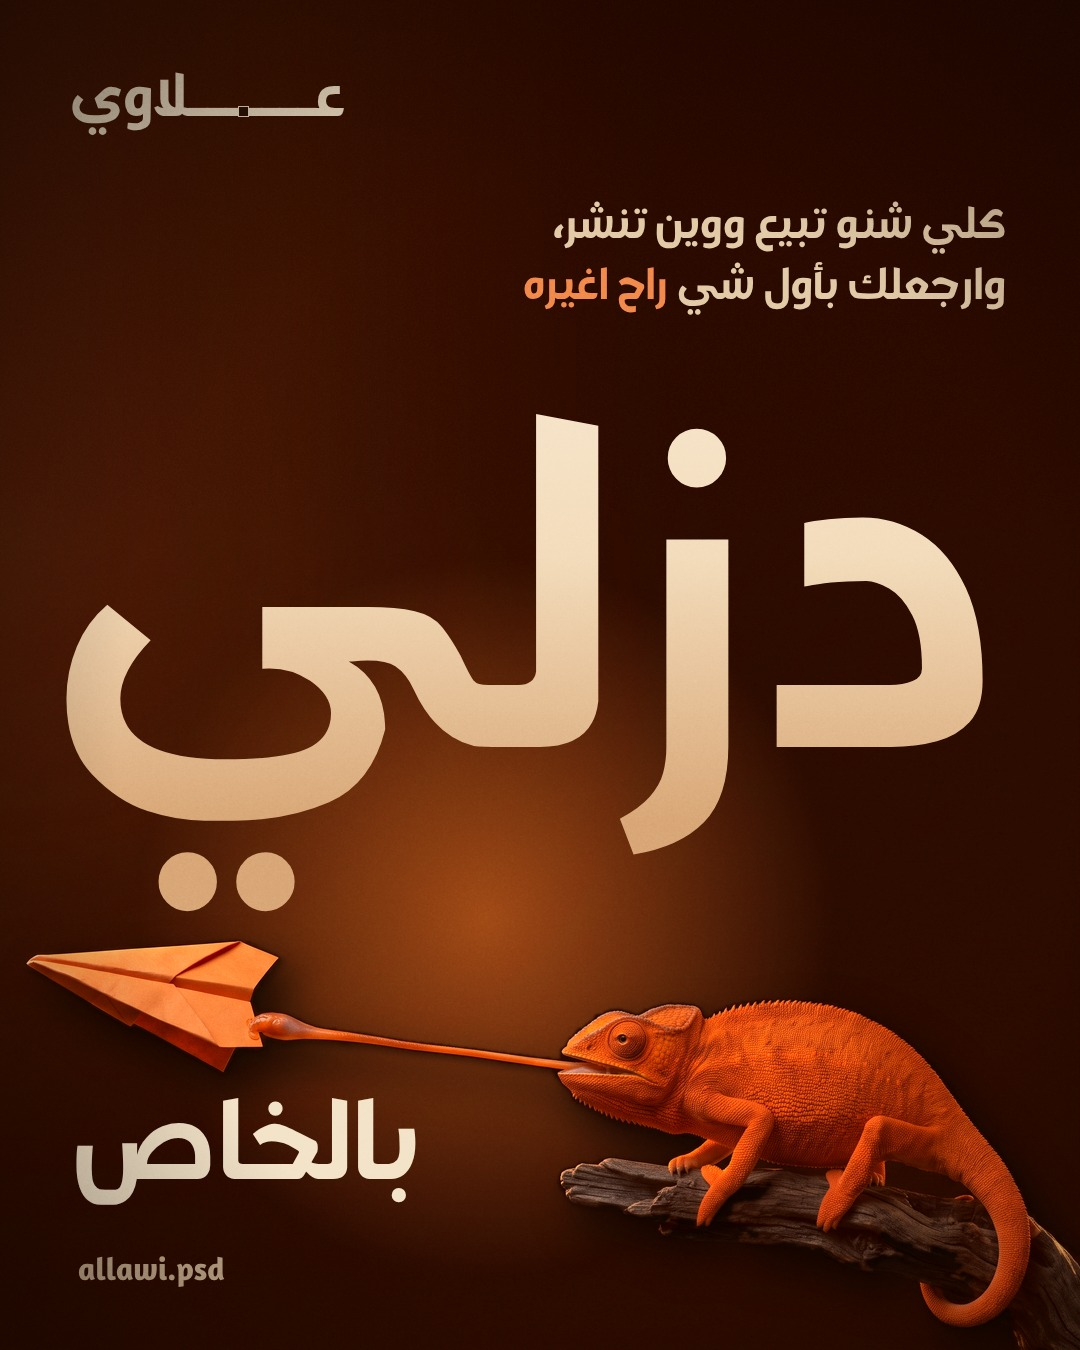
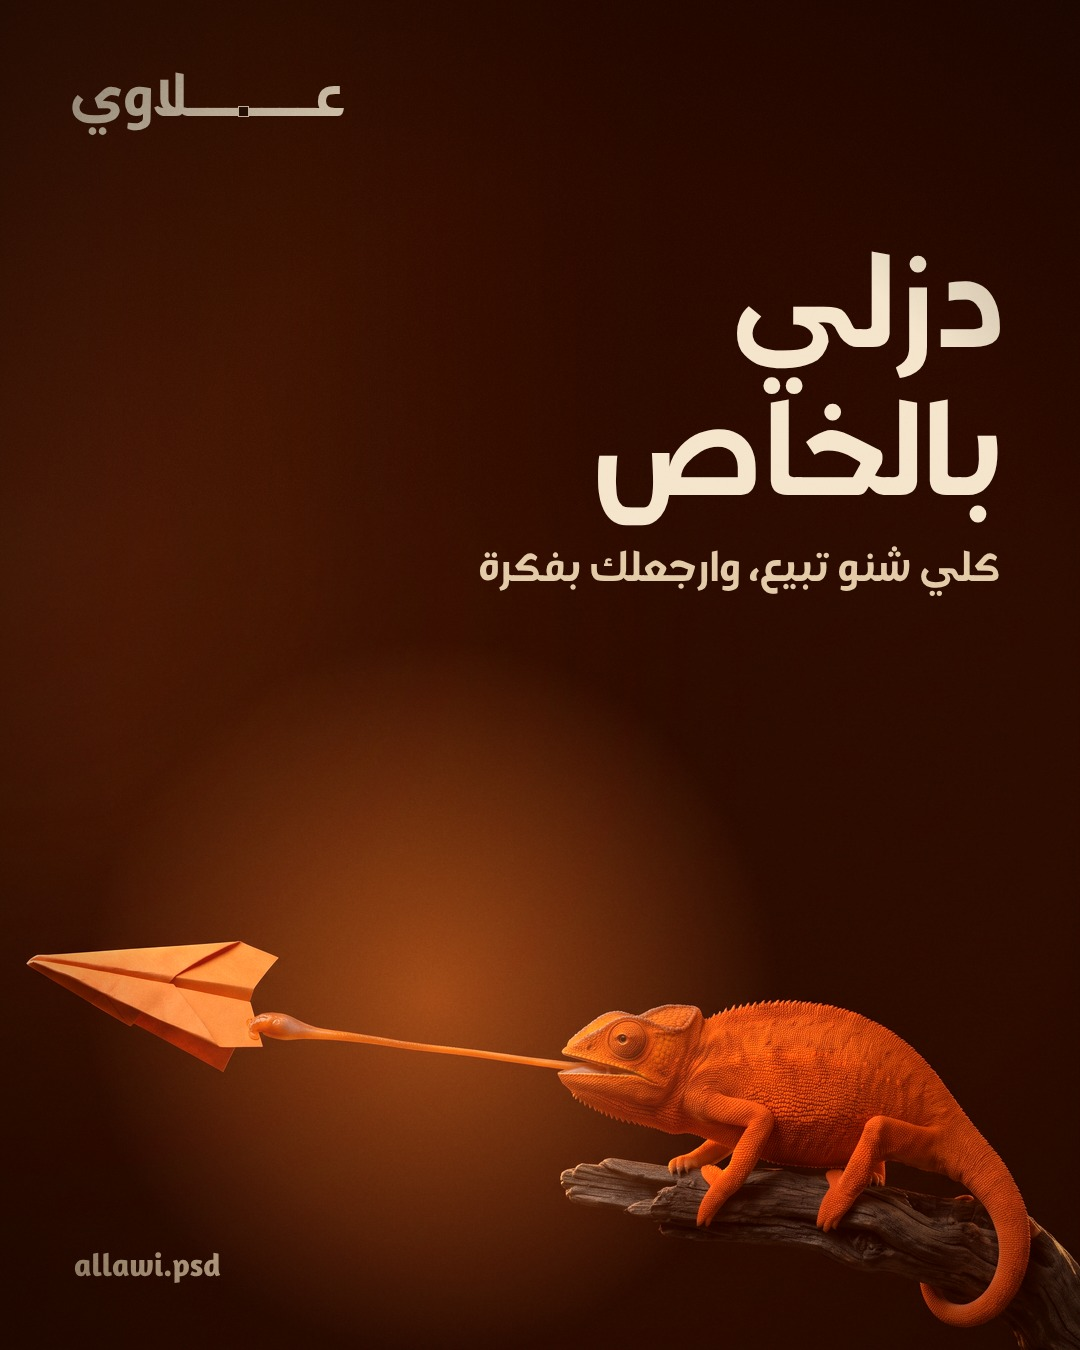
Rebrand carousel: one headline and one line per slide

Changed region(s): [[0.0611, 0.1556, 0.9472, 0.9644], [0.0611, 0.9333, 0.2139, 0.9644]]

diff --git a/marketing/rebrand/carousel.html b/marketing/rebrand/carousel.html
@@ -8,22 +8,16 @@
   body { background:#111; display:flex; gap:40px; padding:40px; width:3500px; font-family:Sahabah, sans-serif; font-weight:400; font-synthesis:none }
   .art { position:relative; width:1080px; height:1350px; overflow:hidden; color:#f1dfc2 }
   .art > * { position:absolute }
-  .plate, .cut { inset:0; width:1080px; height:1350px }
+  .plate { inset:0; width:1080px; height:1350px }
 
   /* a warm light thrown on the backdrop behind the subject, broken up by the paper so it is not an even disc */
   .lamp { inset:0; background:radial-gradient(ellipse 46% 38% at var(--lx) var(--ly), rgba(255,118,40,.55), rgba(255,118,40,0) 70%);
     mix-blend-mode:screen; -webkit-mask:url(../ig-highlights/assets/img/newsprint.jpg) var(--mx) var(--my)/1800px; mask:url(../ig-highlights/assets/img/newsprint.jpg) var(--mx) var(--my)/1800px }
 
-  /* the big word, lit from above, behind the animal */
-  /* padded so the fill reaches the dots and tails that hang outside the line box */
-  .big { line-height:1; padding:.25em .05em .4em; margin-top:-.25em; direction:rtl; white-space:nowrap;
-    background:linear-gradient(180deg, #fbeedb 0%, #f3dcbb 45%, #d9a777 80%);
-    -webkit-background-clip:text; background-clip:text; color:transparent }
-  .cut { filter:drop-shadow(16px 22px 20px rgba(10,3,0,.62)) drop-shadow(3px 4px 3px rgba(10,3,0,.5)) }
-
-  .mid { line-height:1.05; direction:rtl; white-space:nowrap; color:#f3e3c8 }
-  .small { direction:rtl; text-align:right; font-size:42px; line-height:1.38; color:#e3cba8 }
-  .small b { font-weight:400; color:#f28a4c }
+  /* one headline in two lines and one quiet line under it; the orange comes from the photo */
+  .head { right:76px; direction:rtl; text-align:right; white-space:nowrap; font-size:132px; line-height:1.12; color:#f4e5cc }
+  .head span { display:block }
+  .line { right:80px; direction:rtl; text-align:right; font-size:42px; line-height:1.4; color:#e3cba8 }
   .wm { left:70px; top:62px; font-size:60px; line-height:1; color:#f3e3c8; direction:rtl; white-space:nowrap; z-index:5 }
   .wm .h { position:absolute; width:.19em; height:.19em; border:.032em solid currentColor; background:#2a1007 }
   .handle { font-size:32px; color:#e3cba8; direction:ltr; opacity:.85 }
@@ -32,27 +26,13 @@
   .vig { inset:0; background:radial-gradient(ellipse 80% 75% at 55% 55%, rgba(0,0,0,0) 55%, rgba(12,4,0,.55) 100%); z-index:8 }
   .grain { inset:0; background:url(../ig-highlights/assets/img/grain.png) 0 0/512px; mix-blend-mode:overlay; opacity:.12; z-index:9 }
 
-  /* slide 1: «لوني» in the animal's own skin, half old green and half new orange, the chameleon walking in front of it */
-  #s1 { --lx:42%; --ly:58%; --mx:-300px; --my:-200px }
-  #s1 .mid { right:72px; top:150px; font-size:150px }
-  #s1 .big { left:50%; transform:translateX(-50%); top:395px; font-size:430px; background:url(img/skin.png) center/1100px 520px;
-    -webkit-background-clip:text; background-clip:text; color:transparent; filter:brightness(1.08) }
-  #s1 .small { left:72px; top:178px; width:400px; text-align:left }
-  #s1 .handle { right:74px; bottom:58px }
-
-  /* slide 2: the head pushes in front of «هنا»; the services stacked beside the word */
-  #s2 { --lx:62%; --ly:50%; --mx:-900px; --my:-500px }
-  #s2 .mid { right:72px; top:150px; font-size:120px }
-  #s2 .big { right:36px; top:270px; font-size:500px }
-  #s2 .small { left:72px; top:330px; width:280px; text-align:left; font-size:40px; line-height:1.5 }
-  #s2 .handle { right:74px; bottom:58px }
-
-  /* slide 3: the paper plane and the tongue cross in front of «دزلي» */
-  #s3 { --lx:45%; --ly:68%; --mx:-600px; --my:-1000px }
-  #s3 .big { right:60px; top:330px; font-size:460px }
-  #s3 .mid { left:72px; top:1075px; font-size:112px; z-index:6 }
-  #s3 .small { right:74px; top:190px; width:620px; font-size:44px }
-  #s3 .handle { left:78px; bottom:52px; z-index:6 }
+  #s1 { --lx:40%; --ly:66%; --mx:-300px; --my:-200px }
+  #s1 .head { top:190px } #s1 .line { top:505px }
+  #s2 { --lx:30%; --ly:62%; --mx:-900px; --my:-500px }
+  #s2 .head { top:150px } #s2 .line { top:465px }
+  #s3 { --lx:40%; --ly:74%; --mx:-600px; --my:-1000px }
+  #s3 .head { top:220px } #s3 .line { top:535px }
+  .handle { left:74px; bottom:56px }
 </style>
 </head>
 <body>
@@ -60,10 +40,8 @@
 <div class="art" id="s1">
   <img class="plate" src="img/plate-chameleon-1.png" alt="">
   <div class="lamp"></div>
-  <div class="big">لوني</div>
-  <img class="cut" src="img/cut-chameleon-1.png" alt="">
-  <div class="mid">غيرت</div>
-  <div class="small">الصفحة <b>بشكلها الجديد</b><br>وهذا اول بوست بيه</div>
+  <div class="head">غيرت<span>لوني</span></div>
+  <div class="line">الصفحة بشكلها الجديد</div>
   <span class="wm"><span class="t">عـــــــلاوي</span><span class="h"></span></span>
   <div class="handle">allawi.psd</div>
   <div class="vig"></div><div class="grain"></div>
@@ -72,10 +50,8 @@
 <div class="art" id="s2">
   <img class="plate" src="img/plate-chameleon-2.png" alt="">
   <div class="lamp"></div>
-  <div class="big">هنا</div>
-  <img class="cut" src="img/cut-chameleon-2.png" alt="">
-  <div class="mid">شنو اسوي</div>
-  <div class="small">بوستات واعلانات<br>ريلز موشن<br>هويات<br>صور منتجات <b>كأنها من ستوديو</b></div>
+  <div class="head">شنو اسوي<span>هنا</span></div>
+  <div class="line">بوستات، اعلانات، ريلز موشن وهويات</div>
   <span class="wm"><span class="t">عـــــــلاوي</span><span class="h"></span></span>
   <div class="handle">allawi.psd</div>
   <div class="vig"></div><div class="grain"></div>
@@ -84,10 +60,8 @@
 <div class="art" id="s3">
   <img class="plate" src="img/plate-chameleon-3.png" alt="">
   <div class="lamp"></div>
-  <div class="big">دزلي</div>
-  <img class="cut" src="img/cut-chameleon-3.png" alt="">
-  <div class="mid">بالخاص</div>
-  <div class="small">كلي شنو تبيع ووين تنشر،<br>وارجعلك بأول شي <b>راح اغيره</b></div>
+  <div class="head">دزلي<span>بالخاص</span></div>
+  <div class="line">كلي شنو تبيع، وارجعلك بفكرة</div>
   <span class="wm"><span class="t">عـــــــلاوي</span><span class="h"></span></span>
   <div class="handle">allawi.psd</div>
   <div class="vig"></div><div class="grain"></div>

diff --git a/marketing/rebrand/README.md b/marketing/rebrand/README.md
@@ -22,13 +22,10 @@ around the subject, the wordmark small in the top corner.
 - The rebrand carousel, one chameleon through it: slide 1 half turned orange; slide 2 fully orange, looking into the
   lens; slide 3 its tongue catching an orange paper plane (Instagram's DM icon). The chameleons are Gemini images the
   user made from my prompts, saved as pixels only (`img/chameleon-<n>-src.jpg`).
-- The user found the first build (a photo with a text block above it) low effort, so each slide now has one huge word
-  behind the animal, the animal cut out in front of it with its shadow on the letters, a warm light on the backdrop
-  broken by paper texture, a vignette and grain over everything, and its own layout:
-  1. «غيرت» and «لوني», «لوني» filled with the animal's own skin (orange left like its head, green right like its tail).
-  2. «شنو اسوي» and a huge «هنا» behind the head, the services stacked beside it.
-  3. A huge «دزلي» over the plane, «بالخاص» under it.
+- The user found the first build (a photo with a text block above it) low effort, then found a busier version (huge
+  words behind the cut-out animal, «لوني» filled with its skin, text blocks around it) worse: "too much at once". The
+  version that stands: one headline in two lines and one quiet line per slide, all clear of the animal, on a warm
+  light thrown on the backdrop and broken by paper texture, with a vignette and grain over everything. The headlines
+  stay one colour (no orange last word); the orange comes from the photos.
 - Build: `python3 prep.py chameleon-1 420 2340` (`chameleon-2 560 2360`, `chameleon-3 200 2400`) grades each plate;
-  `python3 seg.py chameleon-1 0.055` (the others with the default) cuts the animal out against a fitted model of the
-  studio backdrop; the cut-outs with alpha are `img/cut-chameleon-<n>.png`; `python3 skin.py` makes the skin fill;
   `node render.cjs carousel.html` writes `out/carousel-s1..3.jpg`.
